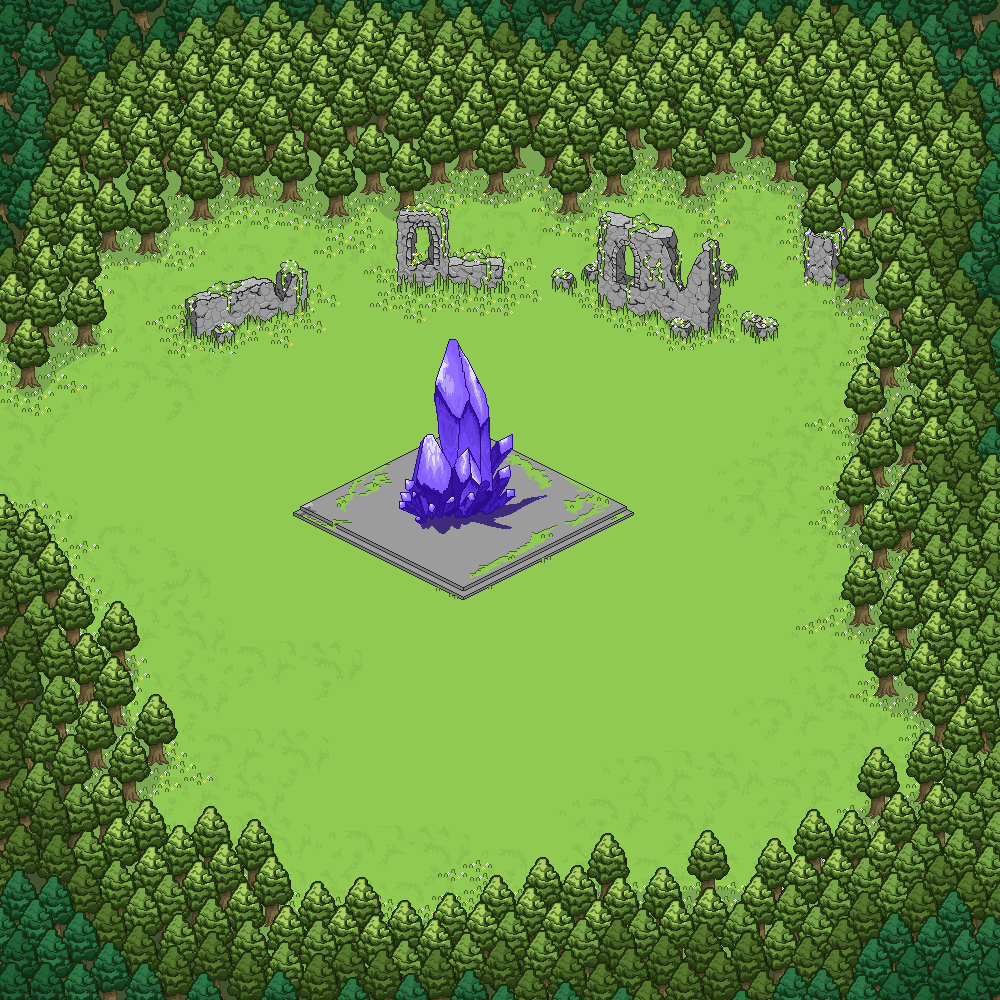
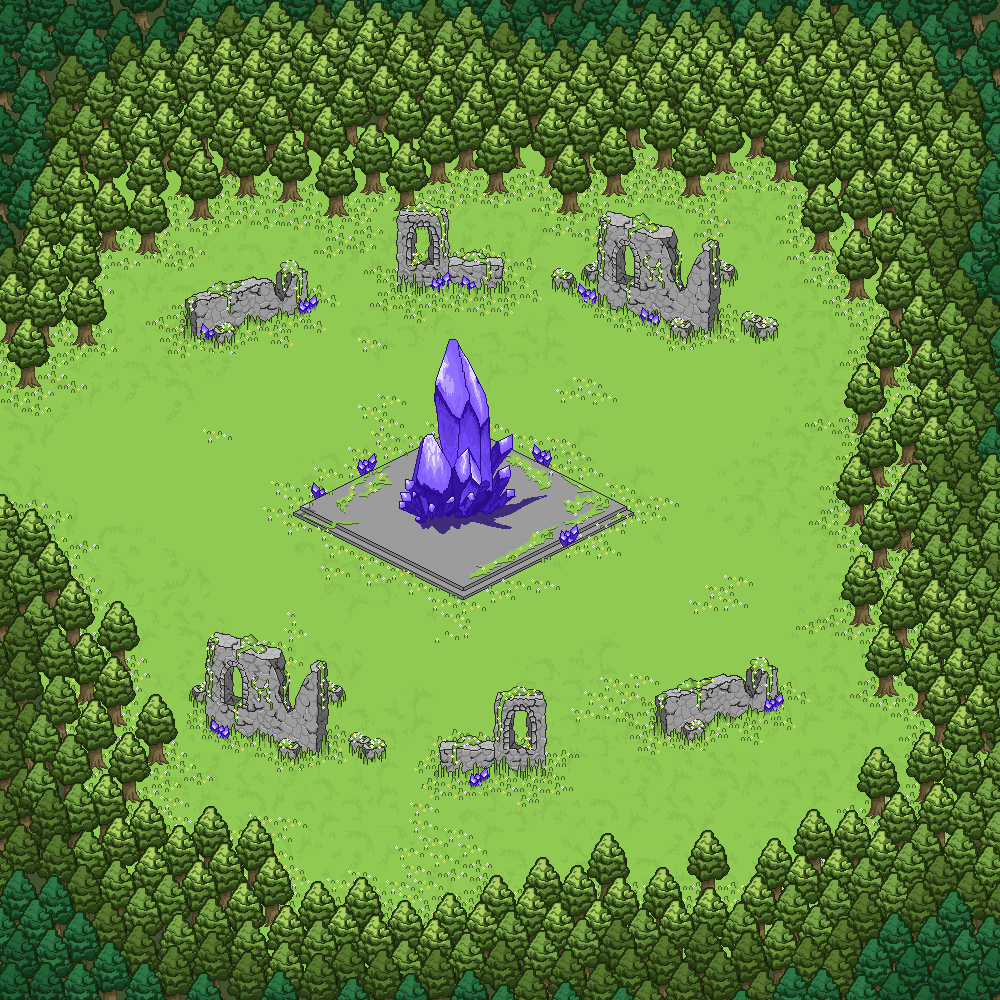
combat area

diff --git a/public/index.js b/public/index.js
@@ -6902,46 +6902,6 @@ let mapsInfo = {
     colliders: [
       {
         "type": "wall",
-        "x": 347,
-        "y": 669.5,
-        "width": 45,
-        "height": 97,
-        "color": "rgb(0, 0, 0, 0)"
-      },
-      {
-        "type": "wall",
-        "x": 578,
-        "y": 516.5,
-        "width": 60,
-        "height": 97,
-        "color": "rgb(0, 0, 0, 0)"
-      },
-      {
-        "type": "wall",
-        "x": -132,
-        "y": 228.5,
-        "width": 764,
-        "height": 152,
-        "color": "rgb(0, 0, 0, 0)"
-      },
-      {
-        "type": "wall",
-        "x": 149,
-        "y": 424.5,
-        "width": 56,
-        "height": 89,
-        "color": "rgb(0, 0, 0, 0)"
-      },
-      {
-        "type": "wall",
-        "x": 329,
-        "y": 483.5,
-        "width": 67,
-        "height": 88,
-        "color": "rgb(0, 0, 0, 0)"
-      },
-      {
-        "type": "wall",
         "x": 520,
         "y": 404.5,
         "width": 58,
@@ -8357,6 +8317,166 @@ let mapsInfo = {
         "width": 203,
         "height": 639,
         "color": "rgb(204, 0, 204, 0)"
+      },
+      {
+        "type": "wall",
+        "x": 1159.5,
+        "y": 2765.5,
+        "width": 95,
+        "height": 48,
+        "color": "rgb(0, 0, 0, 0)"
+      },
+      {
+        "type": "wall",
+        "x": 1267.5,
+        "y": 2995.5,
+        "width": 74,
+        "height": 38,
+        "color": "rgb(0, 0, 0, 0)"
+      },
+      {
+        "type": "wall",
+        "x": 1319.5,
+        "y": 3018.5,
+        "width": 116,
+        "height": 53,
+        "color": "rgb(0, 0, 0, 0)"
+      },
+      {
+        "type": "wall",
+        "x": 578.5,
+        "y": 2756.5,
+        "width": 50,
+        "height": 87,
+        "color": "rgb(0, 0, 0, 0)"
+      },
+      {
+        "type": "wall",
+        "x": 558.5,
+        "y": 2749.5,
+        "width": 22,
+        "height": 51,
+        "color": "rgb(0, 0, 0, 0)"
+      },
+      {
+        "type": "wall",
+        "x": 597.5,
+        "y": 2834.5,
+        "width": 168,
+        "height": 38,
+        "color": "rgb(0, 0, 0, 0)"
+      },
+      {
+        "type": "wall",
+        "x": 669.5,
+        "y": 2858.5,
+        "width": 239,
+        "height": 73,
+        "color": "rgb(0, 0, 0, 0)"
+      },
+      {
+        "type": "wall",
+        "x": 804.5,
+        "y": 2912.5,
+        "width": 388,
+        "height": 60,
+        "color": "rgb(0, 0, 0, 0)"
+      },
+      {
+        "type": "wall",
+        "x": 941.5,
+        "y": 2951.5,
+        "width": 232,
+        "height": 69,
+        "color": "rgb(0, 0, 0, 0)"
+      },
+      {
+        "type": "wall",
+        "x": 2663.5,
+        "y": 2854.5,
+        "width": 234,
+        "height": 78,
+        "color": "rgb(0, 0, 0, 0)"
+      },
+      {
+        "type": "wall",
+        "x": 2860.5,
+        "y": 2831.5,
+        "width": 134,
+        "height": 35,
+        "color": "rgb(0, 0, 0, 0)"
+      },
+      {
+        "type": "wall",
+        "x": 2965.5,
+        "y": 2791.5,
+        "width": 143,
+        "height": 52,
+        "color": "rgb(0, 0, 0, 0)"
+      },
+      {
+        "type": "wall",
+        "x": 3100.5,
+        "y": 2768.5,
+        "width": 104,
+        "height": 33,
+        "color": "rgb(0, 0, 0, 0)"
+      },
+      {
+        "type": "wall",
+        "x": 3079.5,
+        "y": 2758.5,
+        "width": 123,
+        "height": 66,
+        "color": "rgb(0, 0, 0, 0)"
+      },
+      {
+        "type": "wall",
+        "x": 3160.5,
+        "y": 2725.5,
+        "width": 54,
+        "height": 55,
+        "color": "rgb(0, 0, 0, 0)"
+      },
+      {
+        "type": "wall",
+        "x": 3038.5,
+        "y": 2766.5,
+        "width": 68,
+        "height": 40,
+        "color": "rgb(0, 0, 0, 0)"
+      },
+      {
+        "type": "wall",
+        "x": 2929.5,
+        "y": 2807.5,
+        "width": 55,
+        "height": 40,
+        "color": "rgb(0, 0, 0, 0)"
+      },
+      {
+        "type": "wall",
+        "x": 2803.5,
+        "y": 2827.5,
+        "width": 194,
+        "height": 40,
+        "color": "rgb(0, 0, 0, 0)"
+      },
+      {
+        "type": "wall",
+        "x": 2911.5,
+        "y": 2810.5,
+        "width": 73,
+        "height": 32,
+        "color": "rgb(0, 0, 0, 0)"
+      },
+      {
+        "type": "wall",
+        "x": 1686.5,
+        "y": 3027.5,
+        "width": 467,
+        "height": 100,
+        "color": "rgb(0, 0, 0, 0)"
       }
     ]
   },
